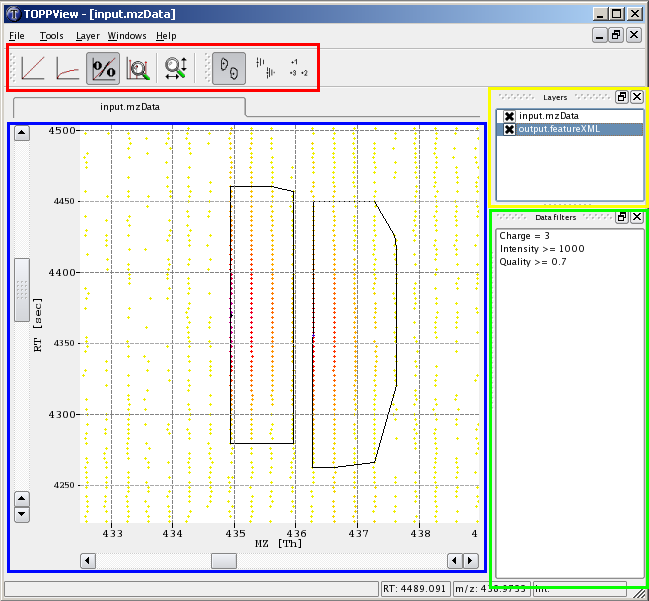
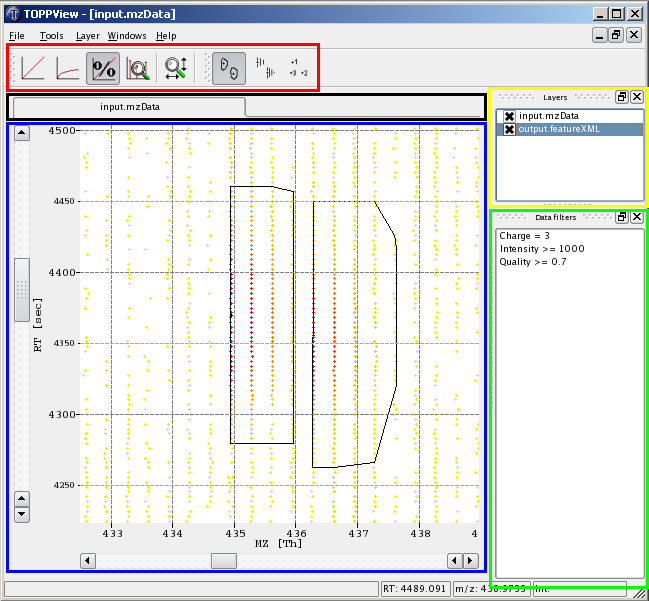
TOPPView: updated drag-and-drop
git-svn-id: https://open-ms.svn.sourceforge.net/svnroot/open-ms/OpenMS@3374 6adb6e08-d915-0410-941f-83917bcadc18

Changed region(s): [[0.0, 0.1498, 0.7704, 0.2097]]

diff --git a/source/APPLICATIONS/TOPPViewBase.C b/source/APPLICATIONS/TOPPViewBase.C
@@ -2274,9 +2274,12 @@ namespace OpenMS
 		//decode data to get the row
 		//QByteArray encoded_data = data->data(data->formats()[0]);
 		//QDataStream stream(&encoded_data, QIODevice::ReadOnly);
-		//int r;
-		//stream >> r;
-		
+		//int row, col;
+		//stream >> row >> col;
+
+
+  	//set wait cursor
+  	setCursor(Qt::WaitCursor);		
 		
 		//only the selected row can be dragged => the source layer is the selected layer
 		const LayerData& layer = activeCanvas_()->getCurrentLayer();
@@ -2313,6 +2316,9 @@ namespace OpenMS
 		
 		//add the data
 		addData_(features, peaks, is_feature, is_2D, false, layer.filename, layer.name, new_id);
+
+		//reset cursor
+  	setCursor(Qt::ArrowCursor);		
 	}
 
 
